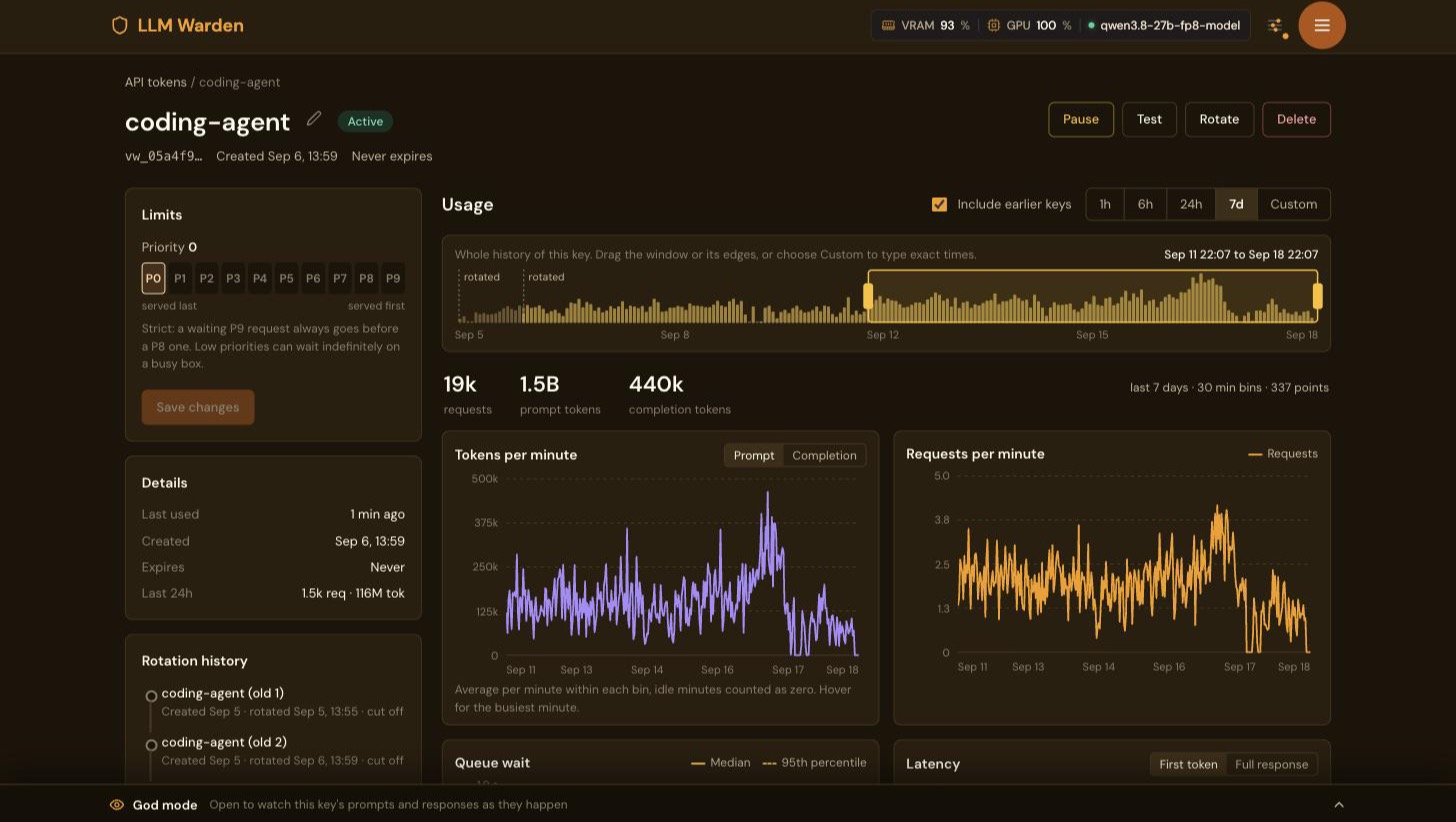
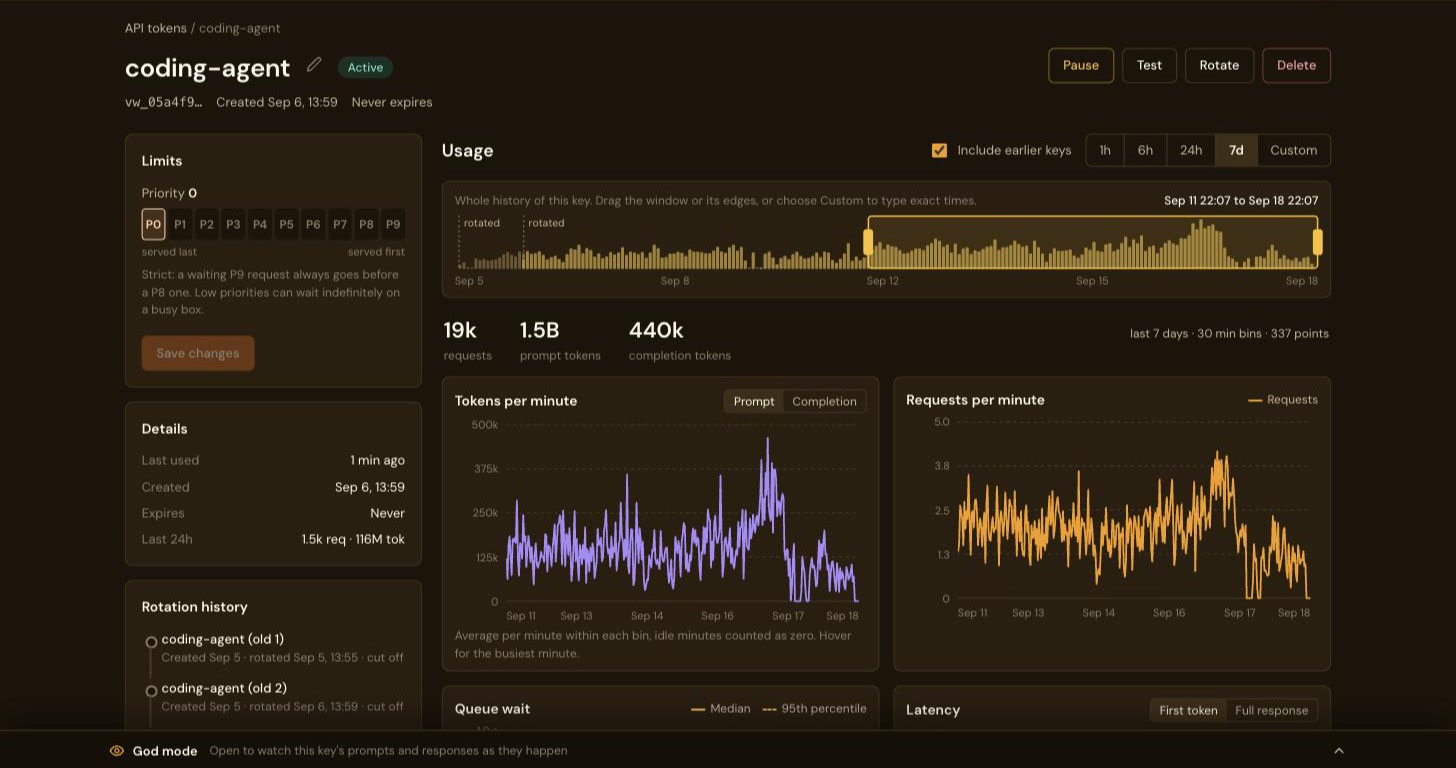
Release v2026.09.24.1
Internal source: 5bcd0075

diff --git a/tests/unit/test_release_buildargs.py b/tests/unit/test_release_buildargs.py
@@ -2,8 +2,7 @@
 
 The runtime version surfacing is already covered by
 `tests/unit/system/test_routes_version.py`. This file guards the *release
-procedure* side — the two places where the build-time / deploy-time identity
-flows in:
+procedure* side — where the build-time identity flows in:
 
   1. `docs/releasing.md` — the manual `docker buildx --push` recipe must
      pass `--build-arg VW_BUILD_VERSION=…` so the backend image bakes the
@@ -11,10 +10,9 @@ flows in:
      UI commands carry the arg (the UI Dockerfile currently ignores it but
      the doc keeps the convention symmetric and forward-compatible).
 
-  2. `deploy/hub/compose.yaml` — the `api` service must expose
-     `VW_BUILD_VERSION` (and `VW_BUILD_SHA`) on its env so a release
-     engineer can override a wrongly-baked image at deploy time without
-     rebuilding.
+(The old `deploy/hub/compose.yaml` check is gone with that stale mirror of the
+catalogue row, removed 2026-09-24; CI's publish:images bakes both build args
+into every release image.)
 
 These are file-content asserts, not behavioural tests — pytest is just a
 convenient harness because vllm-warden already runs unit tests via pytest
@@ -25,7 +23,6 @@ from pathlib import Path
 
 REPO_ROOT = Path(__file__).resolve().parents[2]
 RELEASING_MD = REPO_ROOT / "docs" / "releasing.md"
-HUB_COMPOSE = REPO_ROOT / "deploy" / "hub" / "compose.yaml"
 
 
 def test_releasing_doc_passes_vw_build_version_buildarg_twice():
@@ -51,21 +48,4 @@ def test_releasing_doc_passes_vw_build_sha_buildarg_twice():
         f"Expected --build-arg VW_BUILD_SHA= at least twice in "
         f"{RELEASING_MD.relative_to(REPO_ROOT)} (once per buildx command), "
         f"found {occurrences}."
-    )
-
-
-def test_hub_compose_api_service_exposes_vw_build_version_env():
-    """The `api` service in the production-style compose file must expose
-    VW_BUILD_VERSION on its environment so deploy-time override works even
-    when the image was baked without --build-arg."""
-    text = HUB_COMPOSE.read_text()
-    assert "VW_BUILD_VERSION" in text, (
-        f"Expected VW_BUILD_VERSION in {HUB_COMPOSE.relative_to(REPO_ROOT)} "
-        f"api.environment so the release engineer can override a wrongly-"
-        f"baked image at deploy time. Without it, a mis-built image is "
-        f"only recoverable by rebuilding and re-pushing."
-    )
-    assert "VW_BUILD_SHA" in text, (
-        f"Expected VW_BUILD_SHA in {HUB_COMPOSE.relative_to(REPO_ROOT)} "
-        f"api.environment alongside VW_BUILD_VERSION."
     )

diff --git a/tests/unit/test_product_name.py b/tests/unit/test_product_name.py
@@ -77,7 +77,6 @@ PRODUCT_NAME = "LM Warden"
 SCANNED_TREES: tuple[tuple[str, tuple[str, ...]], ...] = (
     ("app", (".py", ".html")),
     ("frontend/src", (".ts", ".tsx", ".html", ".svg", ".css")),
-    ("deploy/hub", (".md", ".json")),
     ("publish", (".md", ".txt", ".sh")),
     # The public documentation folder (INSTALL, API, HAZARDS, OPERATING,
     # ARCHITECTURE today). Published verbatim to GitHub, so it is the largest
@@ -258,9 +257,6 @@ def test_the_wordmark_and_page_titles_carry_the_new_name() -> None:
 
     readme = (REPO_ROOT / "README.md").read_text(encoding="utf-8")
     assert readme.startswith(f"# {PRODUCT_NAME}\n")
-
-    hub = (REPO_ROOT / "deploy/hub/README-hub.md").read_text(encoding="utf-8")
-    assert hub.startswith(f"# {PRODUCT_NAME}\n")
 
     # The first-run pages and the login heading are the name a new operator
     # meets before the nav bar exists.

diff --git a/app/runtime/engine/docker_socket.py b/app/runtime/engine/docker_socket.py
@@ -22,8 +22,8 @@ from app.runtime.engine.run_marker import format_run_sentinel
 
 HFCACHE_VOLUME = "vllm-warden-hfcache"
 # Where the engine container sees the model cache. This is the path every
-# shipped deployment shape gives the WARDEN too (docker-compose.yml,
-# deploy/hub/compose.yaml, deploy/hub/template.json all mount the cache volume
+# shipped deployment shape gives the WARDEN too (docker-compose.yml and the
+# PodWarden Hub catalogue template's compose both mount the cache volume
 # here, and settings.hf_cache_dir defaults to it), which is what makes
 # HF_HUB_CACHE — set from settings.hf_cache_dir by the backend's env builder —
 # resolve to the same bytes on both sides. app/main.py says so out loud at

diff --git a/scripts/sync-shared-docs.py b/scripts/sync-shared-docs.py
@@ -16,8 +16,8 @@ it need the same words:
     this script assembles into `docs/catalog-shared-regions.md`.
 
 Kept as two hand-written copies they drift, and the copy that is wrong is
-always the one somebody is reading when it matters. `deploy/hub/` is this
-repo's worked example of that failure: an unpublished mirror of the live
+always the one somebody is reading when it matters. `deploy/hub/` was this
+repo's worked example of that failure (deleted 2026-09-24): an unpublished mirror of the live
 catalogue row that quietly fell to 5 `env_schema` entries against the row's 16.
 One fragment per hazard under `docs/shared/`, pulled into both surfaces, is the
 fix.

diff --git a/tests/unit/system/test_pid_attribution.py b/tests/unit/system/test_pid_attribution.py
@@ -2,7 +2,7 @@
 # the supervisor live in the same PID namespace. In production that
 # invariant holds because the api container is started with
 # `pid: host` (compose) / `hostPID: true` (K8s); see docker-compose.yml,
-# deploy/hub/compose.yaml and the Phase 1 entry in changelog.md. Without
+# the Hub catalogue compose and the Phase 1 entry in changelog.md. Without
 # that flag, nvidia-smi returns host PIDs while the supervisor stores
 # in-container PIDs and `attribute_pid_to_model` correctly falls back to
 # returning None (callers then label the holder kind: external). The

diff --git a/CHANGELOG.md b/CHANGELOG.md
@@ -7,6 +7,24 @@ date-versioned: `vYYYY.MM.DD.N`, where `N` counts the releases made that day.
 
 ## [Unreleased]
 
+### Changed
+
+- **Docs screenshots no longer show the old name.** The README and install
+  guide screenshots had the "LLM Warden" wordmark in their top bar; that bar is
+  cropped off, and the one whose error text itself read "LLM Warden" is gone
+  from the install guide. Two unused old captures are deleted. `NOTICE` now
+  names "The LM Warden Team" as the copyright holder.
+
+### Removed
+
+- **`deploy/hub/` is gone.** It was a hand-kept copy of the PodWarden Hub
+  catalogue entry (compose file, template JSON, README and placeholder
+  images) that nothing deployed or published from, and it had drifted far
+  behind the live row: an older pre-Caddy layout with 5 env settings against
+  the row's 23. The live catalogue template is the only source; re-read it
+  instead of diffing against a checked-in copy. The two tests that read the
+  folder now check the files that are actually used.
+
 ### Fixed
 
 - **The GitHub publish no longer dies silently when the warn list is clean.**

diff --git a/documents/INSTALL.md b/documents/INSTALL.md
@@ -778,8 +778,6 @@ fraction, no `max_model_len` tuning.
 
 ### Failure: `GPU 0 is already serving '…'` — this is not a VRAM problem
 
-![The Models page with a second model in the failed state, its error explaining that GPU 0 is already serving another model and that LM Warden runs one loaded model per GPU](../assets/screenshots/install/gpu-already-claimed.jpg)
-
 Register a second model on a GPU that already has one loaded and you get:
 
 ```
